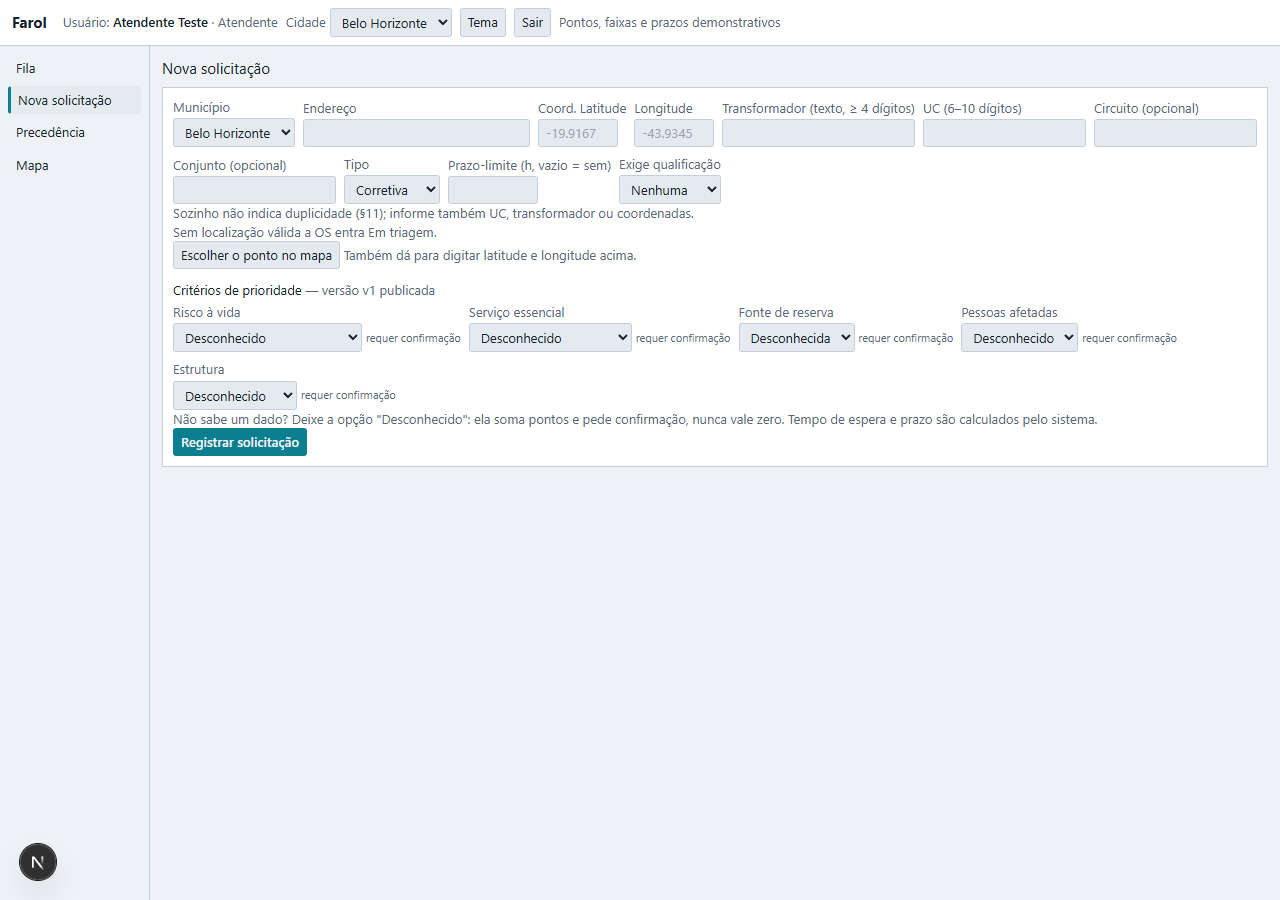
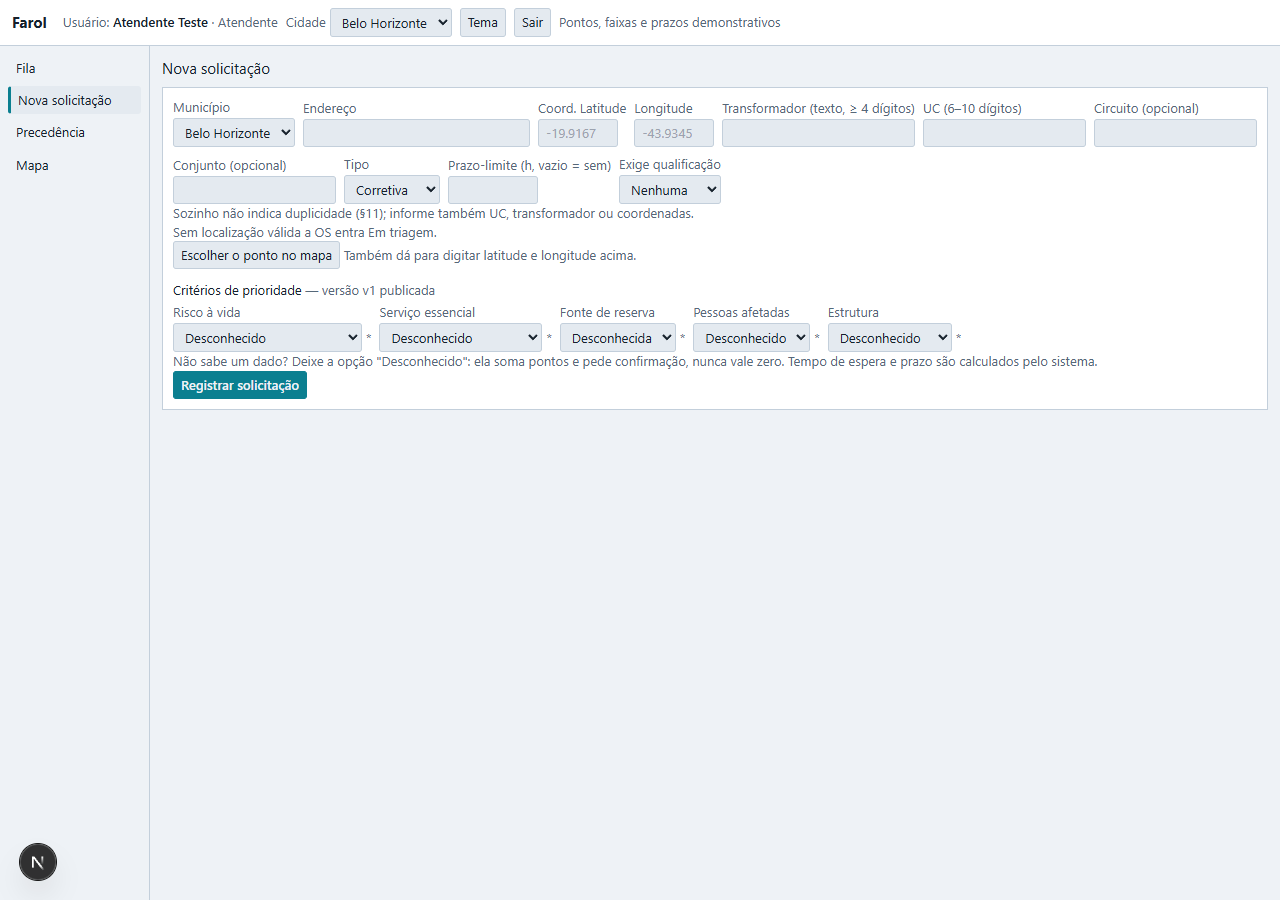
fix(front): asterisco no lugar de 'requer confirmação'

diff --git a/apps/web/src/app/(app)/nova/page.tsx b/apps/web/src/app/(app)/nova/page.tsx
@@ -302,7 +302,7 @@ export default function NovaSolicitacaoPage() {
                         {!p.opcoes.some((o) => o.desconhecida) && <option value="">Não informado</option>}
                         {desconhecidaPorUltimo(p.opcoes).map((o) => <option key={o.label} value={o.label}>{o.label}</option>)}
                       </select>
-                      {sel?.requerConfirmacao && <span id={`${id}_rc`} className="mu whitespace-nowrap text-[11px]">requer confirmação</span>}
+                      {sel?.requerConfirmacao && <span id={`${id}_rc`} className="mu" title="requer confirmação"><span aria-hidden="true">*</span><span className="sr-only">requer confirmação</span></span>}
                     </span>
                   </Campo>
                 );
